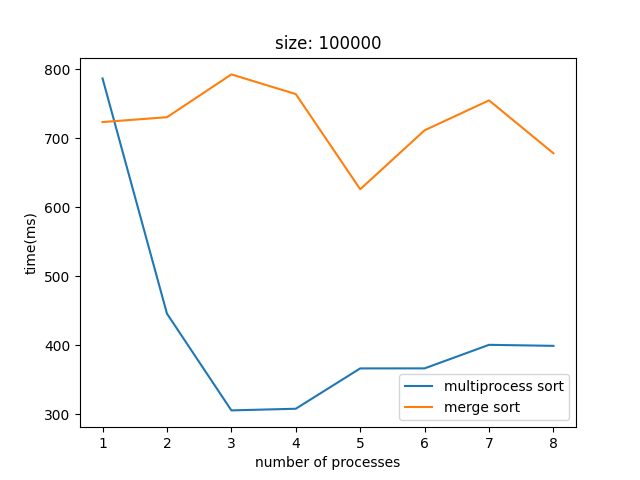
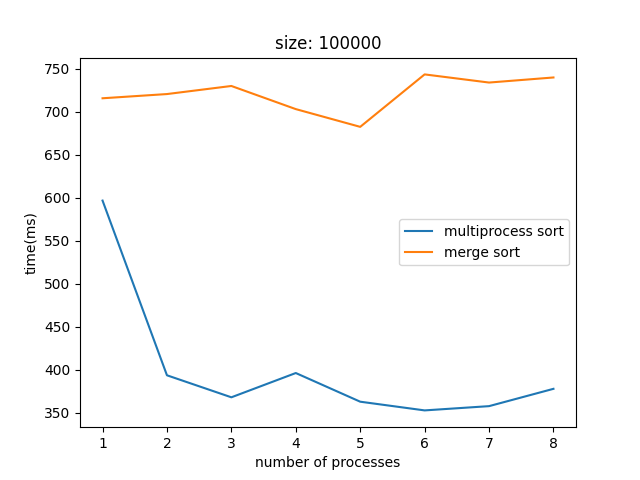
fix: requested changes

diff --git a/src/homeworks/homework_4/sorting_module.py b/src/homeworks/homework_4/sorting_module.py
@@ -35,14 +35,30 @@ def connect_arrays(array_1: list[int], array_2: list[int]) -> list[int]:
     return array
 
 
-def thread_sort(array: list[int], thread_number: int, multiprocess: bool = False) -> list[int]:
+def thread_sort_parts(array: list[int], thread_number: int, multiprocess: bool = False) -> list[int]:
     splitted_array = split_array(array, thread_number)
     executor = ProcessPoolExecutor if multiprocess else ThreadPoolExecutor
 
     with executor(max_workers=thread_number) as executor:
         future_splitted_array = [executor.submit(merge_sort, array_part) for array_part in splitted_array]
         while len(future_splitted_array) > 1:
-            array_1 = future_splitted_array.pop(0).result()
-            array_2 = future_splitted_array.pop(0).result()
+            array_1 = future_splitted_array.pop().result()
+            array_2 = future_splitted_array.pop().result()
             future_splitted_array.append(executor.submit(connect_arrays, array_1, array_2))
         return future_splitted_array[0].result()
+
+
+def thread_sort_merge(array: list[int], thread_number: int, multiprocess: bool = False) -> list[int]:
+    executor_name = ProcessPoolExecutor if multiprocess else ThreadPoolExecutor
+
+    def merge_sort_executor(array: list[int], thread_number: int) -> list[int]:
+        if thread_number < 2:
+            return merge_sort(array)
+        left_array = array[: len(array) // 2]
+        right_array = array[len(array) // 2 :]
+        left_sorted_array = executor.submit(merge_sort_executor, left_array, thread_number // 2)
+        right_sorted_array = executor.submit(merge_sort_executor, right_array, thread_number // 2)
+        return connect_arrays(left_sorted_array.result(), right_sorted_array.result())
+
+    with executor_name(max_workers=thread_number) as executor:
+        return merge_sort_executor(array, thread_number)

diff --git a/src/homeworks/homework_4/homework_4_task_1.py b/src/homeworks/homework_4/homework_4_task_1.py
@@ -22,11 +22,23 @@ def check_time_ms(
 
 
 def create_graph(
-    size: int, threads: list[int], output_path: str, multiprocess: bool = False, n_tries: int = 10
+    size: int,
+    threads: list[int],
+    output_path: str,
+    multiprocess: bool = False,
+    second_function: bool = False,
+    n_tries: int = 5,
 ) -> None:
-    thread_y = [
-        check_time_ms(thread_sort, size, n_tries, thread_number, multiprocess=multiprocess) for thread_number in threads
-    ]
+    if second_function:
+        thread_y = [
+            check_time_ms(thread_sort_merge, size, n_tries, thread_number, multiprocess=multiprocess)
+            for thread_number in threads
+        ]
+    else:
+        thread_y = [
+            check_time_ms(thread_sort_parts, size, n_tries, thread_number, multiprocess=multiprocess)
+            for thread_number in threads
+        ]
 
     plt.title(f"size: {size}")
     plt.plot(threads, thread_y, label="multiprocess sort" if multiprocess else "thread sort")
@@ -55,6 +67,9 @@ if __name__ == "__main__":
     argparser.add_argument(
         "--multiprocess", action="store_true", help="is it necessary to create threads in different processes"
     )
+
+    argparser.add_argument("--second_function", action="store_true", help="use second thread function")
+
     args = argparser.parse_args()
 
     try:

diff --git a/tests/homeworks/homework_4/test_homework_4_task_1.py b/tests/homeworks/homework_4/test_homework_4_task_1.py
@@ -14,15 +14,21 @@ class TestSortingModule:
         assert merge_sorted == list(sorted(array))
 
     @given(st.integers(100, 1000), st.integers(1, 100))
-    def test_thread_sort(self, length, thread_number):
+    def test_thread_sort_parts(self, length, thread_number):
         array = [random.randint(-100, 100) for _ in range(length)]
-        thread_sorted = thread_sort(array, thread_number)
+        thread_sorted = thread_sort_parts(array, thread_number)
+        assert thread_sorted == list(sorted(array))
+
+    @given(st.integers(100, 1000), st.integers(1, 100))
+    def test_thread_sort_merge(self, length, thread_number):
+        array = [random.randint(-100, 100) for _ in range(length)]
+        thread_sorted = thread_sort_merge(array, thread_number)
         assert thread_sorted == list(sorted(array))
 
     @given(st.integers(100, 1000), st.integers(1, 8))
     def test_process_sort(self, length, thread_number):
         array = [random.randint(-100, 100) for _ in range(length)]
-        process_sorted = thread_sort(array, thread_number, multiprocess=True)
+        process_sorted = thread_sort_parts(array, thread_number, multiprocess=True)
         assert process_sorted == list(sorted(array))
 
     @given(st.integers(1, 100), st.integers(1, 100))
